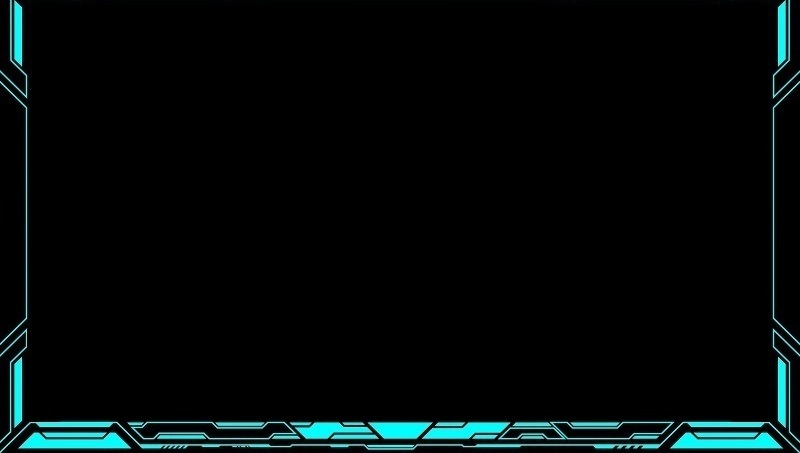
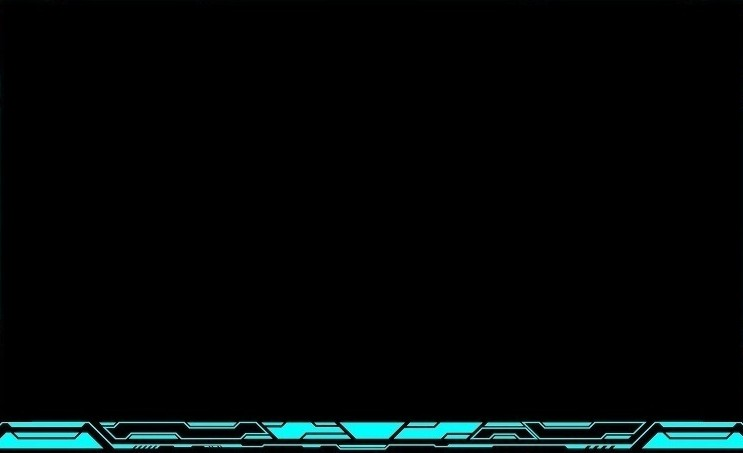
update gui

diff --git a/server/pystream.py b/server/pystream.py
@@ -3,11 +3,12 @@ from enum import Enum
 from typing import Dict, Protocol
 
 from PyQt5.QtCore import Q_ARG, QMetaObject, Qt, pyqtSlot
-from PyQt5.QtGui import QCloseEvent, QIcon
+from PyQt5.QtGui import QCloseEvent, QIcon, QPalette
 from PyQt5.QtWidgets import (QHBoxLayout, QMainWindow, QStackedWidget,
                              QToolButton, QVBoxLayout, QWidget)
 
 from metric.metric import Metric
+from server.gui.chevron_button import ChevronButton
 from server.gui.gui_helper import GuiHelper
 from server.gui.metric_panel import MetricPanel
 from server.gui.stack_panel import StackPanel
@@ -38,10 +39,13 @@ class PyStreamPresenterProtocol(Protocol):
 class PyStream(QMainWindow):
     presenter:PyStreamPresenterProtocol
     metric_panels : Dict[str, MetricPanel]
+    BUTTON_LEFT = "btn_left"
+    BUTTON_RIGHT = "btn_right"
+    INIT_BUTTONS_AFTER_PAINT_EVENTS = 3
 
     def __init__(self) -> None:
         super().__init__()
-        
+        self.paint_events = 0
         self.metric_panels = {}
 
     def init_ui(self, presenter:PyStreamPresenterProtocol) -> None:
@@ -90,38 +94,96 @@ class PyStream(QMainWindow):
         self.label_time.setAlignment(Qt.AlignmentFlag.AlignHCenter)
         header_panel_layout.addWidget(self.label_time)
 
-        main_layout.addWidget(header_panel, 5625)
+        main_layout.addWidget(header_panel, 9)
         #####################
 
+        view_panel = QWidget()
+        view_panel_layout = QHBoxLayout()
+        view_panel_layout.setSpacing(0)
+        view_panel_layout.setContentsMargins(0, 0, 0, 0)
+        
+        panel_left = QWidget()
+        panel_left.setMaximumWidth(28)
+        panel_left.setObjectName("panel_left")
+        panel_left.setStyleSheet("""#panel_left {
+            border-image: url(server/resource/panel_left.jpg) 0 0 0 0 stretch stretch;
+        }""")
+
+        panel_left_layout = QVBoxLayout()
+        panel_left.setLayout(panel_left_layout)
+        panel_left_layout.setSpacing(0)
+        panel_left_layout.setContentsMargins(1, 0, 3, 0)
+        panel_left_layout.addSpacing(20)
+        self.btn_left = GuiHelper.create_button(panel_left, width=18, height=100, button_type=ChevronButton, click=lambda:self.__change_page(PageDirection.BACKWARD))
+        self.btn_left.orientation = ChevronButton.Orientation.Left
+        panel_left_layout.addWidget(self.btn_left, 60)
+        panel_left_layout.addSpacing(20)
+        view_panel_layout.addWidget(panel_left)
+        
+        panel_content = QWidget()
+        panel_content_layout = QVBoxLayout()
+        panel_content_layout.setContentsMargins(0, 0, 0, 0)
         self.stack = QStackedWidget()
-        main_layout.addWidget(self.stack, 94375)
+        panel_content_layout.addWidget(self.stack)
+
+        panel_bottom = QWidget()
+        panel_bottom.setFixedHeight(32)
+        panel_bottom.setObjectName("panel_bottom")
+        panel_bottom.setStyleSheet("""#panel_bottom {
+            border-image: url(server/resource/panel_bottom.jpg) 0 0 0 0 stretch stretch;
+        }""")
+        panel_content_layout.addWidget(panel_bottom)
+        panel_content.setLayout(panel_content_layout)
+        view_panel_layout.addWidget(panel_content)
+        
+        panel_right = QWidget()
+        panel_right.setMaximumWidth(28)
+        panel_right.setObjectName("panel_right")
+        panel_right.setStyleSheet("""#panel_right {
+            border-image: url(server/resource/panel_right.jpg) 0 0 0 0 stretch stretch;
+        }""")
+
+        panel_right_layout = QVBoxLayout()
+        panel_right.setLayout(panel_right_layout)
+        panel_right_layout.setSpacing(0)
+        panel_right_layout.setContentsMargins(3, 0, 1, 0)
+        panel_right_layout.addSpacing(20)
+        self.btn_right = GuiHelper.create_button(panel_right, width=18, height=100, button_type=ChevronButton, click=lambda:self.__change_page(PageDirection.FORWARD))
+        self.btn_right.orientation = ChevronButton.Orientation.Right
+        panel_right_layout.addWidget(self.btn_right, 60)
+        panel_right_layout.addSpacing(20)
+        view_panel_layout.addWidget(panel_right)
+        
+
+        view_panel.setLayout(view_panel_layout)
+
+        main_layout.addWidget(view_panel, 151)
         
         #####################
         ##### Button Panel
         button_panel = StackPanel()
-        
         button_panel.set_panel_name("Buttons")
-        button_panel.setObjectName("button_panel")
-        button_panel.setStyleSheet("""StackPanel#button_panel {
-            border-image: url(server/resource/page_button.jpg) 0 0 0 0 stretch stretch;
-        }""")
+        pal = QPalette()
+        pal.setColor(QPalette.ColorRole.Background, Qt.GlobalColor.black)
+        button_panel.setAutoFillBackground(True)
+        button_panel.setPalette(pal)
 
         grid = QHBoxLayout()
         grid.addStretch()
-        grid.addWidget(GuiHelper.create_button(width=100, height=120, image="desk_lamp.png", click=self.presenter.desklamp_click, checkable=True))
+        grid.addWidget(GuiHelper.create_button(parent=button_panel, width=100, height=120, image="desk_lamp.png", click=self.presenter.desklamp_click, checkable=True))
         grid.addStretch()
-        self.button_change_usb = GuiHelper.create_button(width=100, height=140, text="1", image="keyboard.png", press=self.presenter.usb_switch_activate, release=self.presenter.usb_switch_deactivate, button_type=QToolButton)
+        self.button_change_usb = GuiHelper.create_button(parent=button_panel, width=100, height=140, text="1", image="keyboard.png", press=self.presenter.usb_switch_activate, release=self.presenter.usb_switch_deactivate, button_type=QToolButton)
         grid.addWidget(self.button_change_usb)
         grid.addStretch()
-        grid.addWidget(GuiHelper.create_button(width=100, height=120, image="laptop.png", click=self.presenter.laptop_click, checkable=True))
+        grid.addWidget(GuiHelper.create_button(parent=button_panel, width=100, height=120, image="laptop.png", click=self.presenter.laptop_click, checkable=True))
         grid.addStretch()
 
         button_panel.setLayout(grid)
         self.stack.addWidget(button_panel)
         #####################
 
-        self.btn_left = GuiHelper.create_button(parent=self, x=0, y=190, width=26, height=100, image="arrow_left.png", click=lambda:self.__change_page(PageDirection.BACKWARD))
-        self.btn_right = GuiHelper.create_button(parent=self, x=774, y=190, width=26, height=100, image="arrow_right.png", click=lambda:self.__change_page(PageDirection.FORWARD))
+        #self.btn_left = GuiHelper.create_button(parent=self, x=0, y=190, width=26, height=100, image="arrow_left.png", click=lambda:self.__change_page(PageDirection.BACKWARD))
+        #self.btn_right = GuiHelper.create_button(parent=self, x=774, y=190, width=26, height=100, image="arrow_right.png", click=lambda:self.__change_page(PageDirection.FORWARD))
 
         self.set_page_button_visibility()
 
@@ -202,11 +264,20 @@ class PyStream(QMainWindow):
         
         if isinstance(panel, StackPanel):
             pagename = panel.get_panel_name()
+            #btn_left = panel.findChild(QPushButton, PyStream.BUTTON_LEFT)
+            #if btn_left is not None:
+            #    btn_left.setVisible(show_left)
+            #    btn_left.setEnabled(show_left)
+
+            #btn_right = panel.findChild(QPushButton, PyStream.BUTTON_RIGHT)
+            #if btn_right is not None:
+            #    btn_right.setVisible(show_left)
+            #    btn_right.setEnabled(show_left)
 
         self.label_pagename.setText(pagename)
-        self.btn_left.setVisible(show_left)
+        #self.btn_left.setVisible(show_left)
         self.btn_left.setEnabled(show_left)
-        self.btn_right.setVisible(show_right)
+        #self.btn_right.setVisible(show_right)
         self.btn_right.setEnabled(show_right)
 
     @property
@@ -226,3 +297,15 @@ class PyStream(QMainWindow):
             QMetaObject.invokeMethod(self, methode, Q_ARG(type(args[0]), args[0]), Q_ARG(type(args[1]), args[1]), Q_ARG(type(args[2]), args[2]), Q_ARG(type(args[3]), args[3]))
         elif len(args) == 5:
             QMetaObject.invokeMethod(self, methode, Q_ARG(type(args[0]), args[0]), Q_ARG(type(args[1]), args[1]), Q_ARG(type(args[2]), args[2]), Q_ARG(type(args[3]), args[3]), Q_ARG(type(args[4]), args[4]))
+
+    #def showEvent(self, a0: QShowEvent | None) -> None:
+    #    super().showEvent(a0)
+    #    print("test")
+    #def paintEvent(self, a0: QPaintEvent | None) -> None:
+    #    super().paintEvent(a0)
+
+    #    if self.paint_events < 10:
+    #        if self.paint_events >= PyStream.INIT_BUTTONS_AFTER_PAINT_EVENTS:
+    #            self.set_page_button_visibility()
+    #        else:
+    #            self.paint_events += 1

diff --git a/server/gui/chevron_button.py b/server/gui/chevron_button.py
@@ -1,0 +1,64 @@
+from enum import IntEnum
+
+from PyQt5.QtCore import QPointF, Qt
+from PyQt5.QtGui import QColor, QPainter, QPaintEvent, QPolygonF
+from PyQt5.QtWidgets import QPushButton, QWidget
+
+
+class ChevronButton(QPushButton):
+    class Orientation(IntEnum):
+        Left = 0
+        Up = 90
+        Right = 180
+        Down = 270
+
+    _buffer: int
+    _thickness: int
+    _color:QColor
+    orientation:Orientation
+
+    def __init__(self, parent: QWidget | None, buffer:int = 1, thickness:int = 10, color:QColor=QColor.fromRgb(26, 246, 248, 255), orientation:Orientation=Orientation.Left) -> None:
+        super().__init__(parent)
+        self._buffer = buffer
+        self._thickness = thickness
+        self._color = color
+        self.orientation = orientation
+
+    def paintEvent(self, a0: QPaintEvent | None) -> None:
+        painter = QPainter(self)
+        painter.setPen(self.get_color())
+        painter.setBrush(self.get_color())
+        painter.setRenderHint(QPainter.RenderHint.HighQualityAntialiasing)
+        painter.save()
+        xmid = self.width() / 2
+        ymid = self.height() / 2
+        painter.translate(xmid, ymid)
+        painter.rotate(int(self.orientation))
+        painter.translate(-xmid, -ymid)
+        painter.drawPolygon(self.get_points())
+        painter.restore()
+        painter.end()
+    
+    def get_color(self) -> QColor | Qt.GlobalColor:
+        if self.isEnabled():
+            return self._color
+        else: 
+            return Qt.GlobalColor.gray
+
+    def get_points(self) -> QPolygonF:
+        # Points:
+        # - A: x(max) - buffer | buffer
+        # - B: x(max) - buffer | buffer + thickness
+        # - C: buffer + thickness | y(max) / 2
+        # - D: x(max) - buffer | y(max) - (buffer + thickness)
+        # - E: x(max) - buffer | y(max) - buffer
+        # - F: buffer | y(max) / 2
+        points = QPolygonF() 
+        points.append(QPointF(self.width() - self._buffer, self._buffer))
+        points.append(QPointF(self.width() - self._buffer, self._buffer + self._thickness))
+        points.append(QPointF(self._buffer + self._thickness, self.height() / 2))
+        points.append(QPointF(self.width() - self._buffer, self.height() - (self._buffer + self._thickness)))
+        points.append(QPointF(self.width() - self._buffer, self.height() - self._buffer))
+        points.append(QPointF(self._buffer, self.height() / 2))
+
+        return points

diff --git a/server/gui/gui_helper.py b/server/gui/gui_helper.py
@@ -4,8 +4,9 @@ from PyQt5.QtCore import Qt
 from PyQt5.QtGui import QFont, QIcon
 from PyQt5.QtWidgets import QLabel, QPushButton, QToolButton, QWidget
 
-from server.gui.analoggaugewidget import AnalogGaugeWidget 
+from server.gui.analoggaugewidget import AnalogGaugeWidget
 from server.gui.gradiant_progressbar import GradiantProgressBar
+
 
 class GuiHelper():
     @staticmethod
@@ -55,7 +56,7 @@ class GuiHelper():
         return progress
     
     @staticmethod
-    def create_button(parent:Optional[QWidget]=None, x=None, y=None, width=None, height=None, text=None, image=None, click=None, press=None, release=None, checkable=False, button_type:Union[Callable[[QWidget], QPushButton], Callable[[QWidget], QToolButton]]=QPushButton, font_size=15, color="#FFFFFF") -> Union[QPushButton, QToolButton]:
+    def create_button(parent:Optional[QWidget]=None, x=None, y=None, width=None, height=None, text=None, image=None, click=None, press=None, release=None, checkable=False, button_type:Union[Callable[[QWidget], QPushButton], Callable[[QWidget], QToolButton]]=QPushButton, font_size=15, color="#FFFFFF", name:Union[str,None]=None) -> Union[QPushButton, QToolButton]:
         button = button_type(parent)# type: ignore
         button.setCheckable(checkable)
         
@@ -73,7 +74,8 @@ class GuiHelper():
                 button.setStyleSheet(stre)
             else:
                 if button_type == QPushButton:
-                    button.setStyleSheet("border-image: url(server/resource/" + image + ");")
+                    button.setIcon(QIcon("server/resource/" + image))
+                    button.setIconSize(button.size())
                 elif button_type == QToolButton:
                     button.setIcon(QIcon("server/resource/" + image))
                     button.setIconSize(button.size())
@@ -90,6 +92,9 @@ class GuiHelper():
         elif button_type == QToolButton:
             button.setToolButtonStyle(Qt.ToolButtonStyle.ToolButtonTextUnderIcon)# type: ignore
             button.setStyleSheet("border: none; color: %s;" % color)
+
+        if name is not None:
+            button.setObjectName(name)
 
         return button
 

diff --git a/server/gui/metric_panel.py b/server/gui/metric_panel.py
@@ -1,6 +1,7 @@
 import logging
 
-from PyQt5.QtGui import QResizeEvent
+from PyQt5.QtCore import Qt
+from PyQt5.QtGui import QPalette
 from PyQt5.QtWidgets import QHBoxLayout, QProgressBar, QVBoxLayout, QWidget
 
 from metric.metric import Metric
@@ -21,25 +22,26 @@ class MetricPanel(StackPanel):
     def __init__(self, name, cpu_count:int) -> None:
         super().__init__()
         self.set_panel_name(name)
-        self.setObjectName("metric_panel")
-        self.setStyleSheet("""StackPanel#metric_panel {
-            border-image: url(server/resource/page_metric.jpg) 0 0 0 0 stretch stretch;
-        }""")
+        pal = QPalette()
+        pal.setColor(QPalette.ColorRole.Background, Qt.GlobalColor.black)
+        self.setAutoFillBackground(True)
+        self.setPalette(pal)
 
         main_layout = QVBoxLayout()
         main_layout.setContentsMargins(0, 0, 0, 0)
         self.setLayout(main_layout)
 
         self.cpu_panel = CpuPanel()
-        #self.cpu_panel.setGeometry(26, 25, 748, 350) # 0,729166666667%
         self.cpu_panel.create_cpus(cpu_count)
         main_layout.addWidget(self.cpu_panel, 729166667)
 
         bottom_panel = QWidget()
-        #bottom_panel.setStyleSheet("QWidget { border-color: red; border-width: 2px; border-style: solid;}")
-        #bottom_panel.setGeometry(35, 390, 730, 50) # 0,104166666667%
+        bottom_panel.setObjectName("panel_metric_bottom")
+        bottom_panel.setStyleSheet("""#panel_metric_bottom {
+            border-image: url(server/resource/panel_metric_bottom.jpg) 0 0 0 0 stretch stretch;
+        }""")
         bottom_panel_layout = QHBoxLayout()
-        bottom_panel_layout.setContentsMargins(0, 0, 0, 0)
+        bottom_panel_layout.setContentsMargins(5, 20, 0, 0)
         bottom_panel.setLayout(bottom_panel_layout)
         main_layout.addWidget(bottom_panel, 104166667)
 
